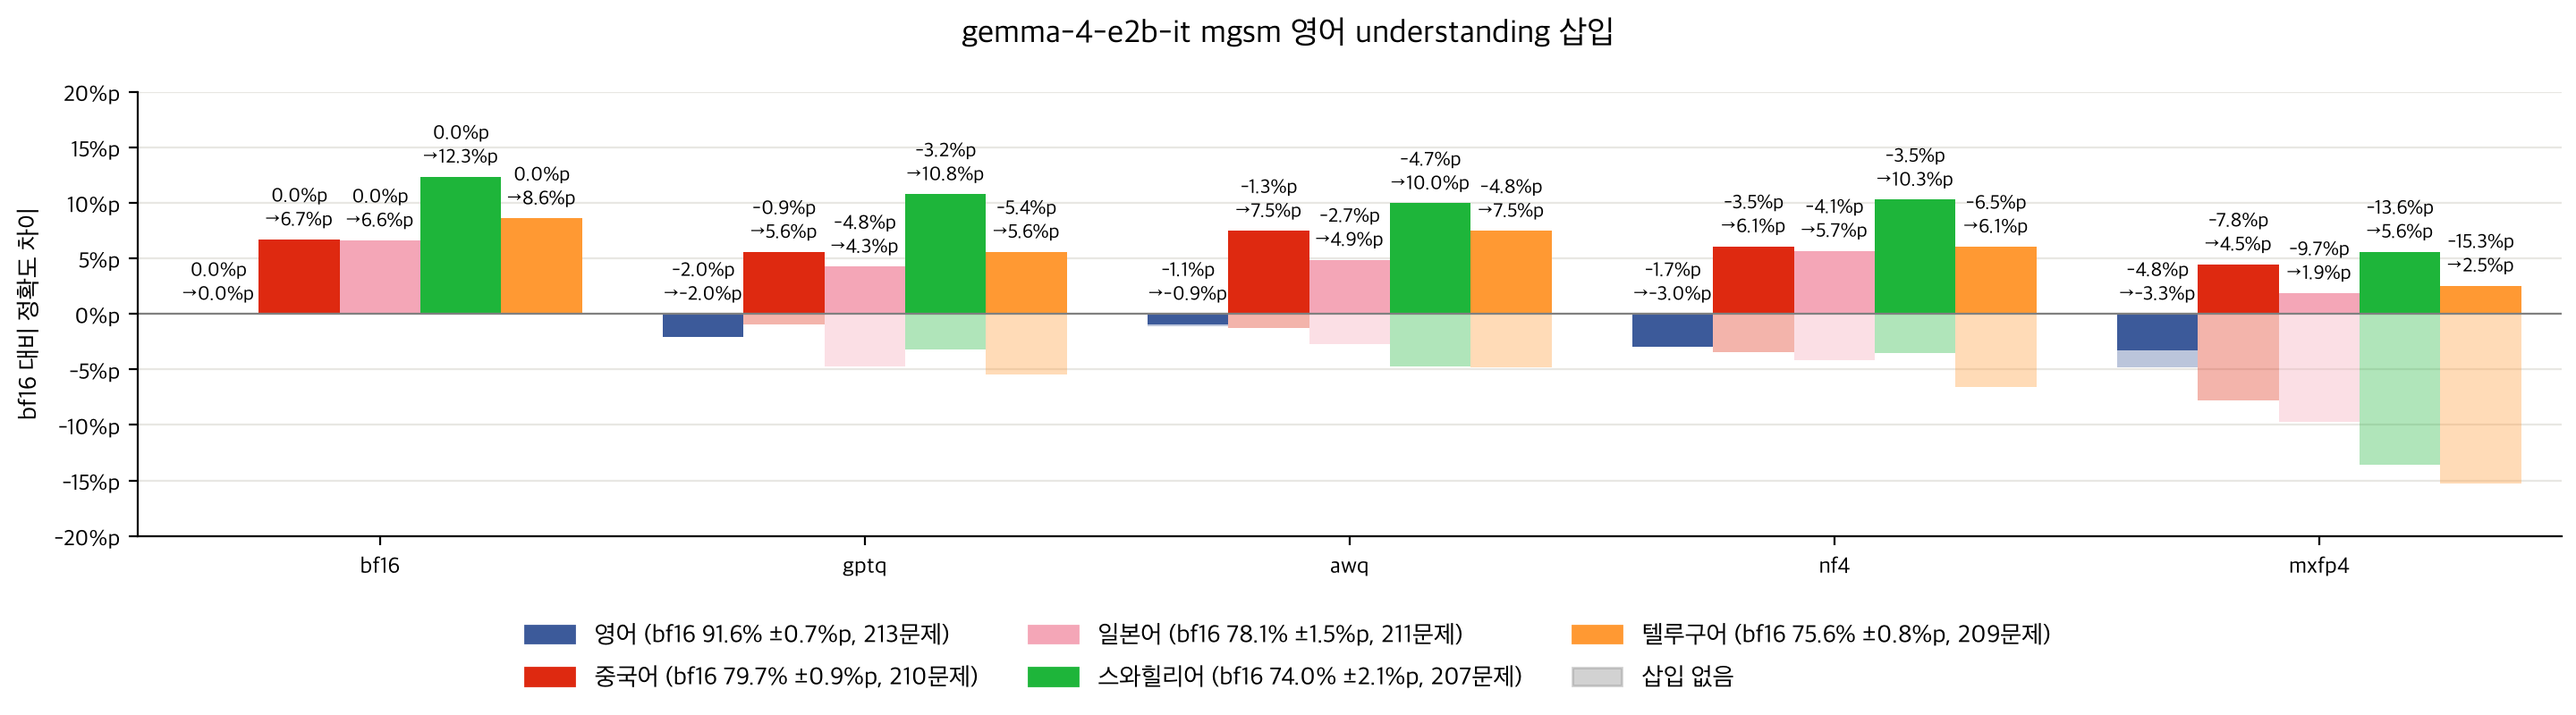
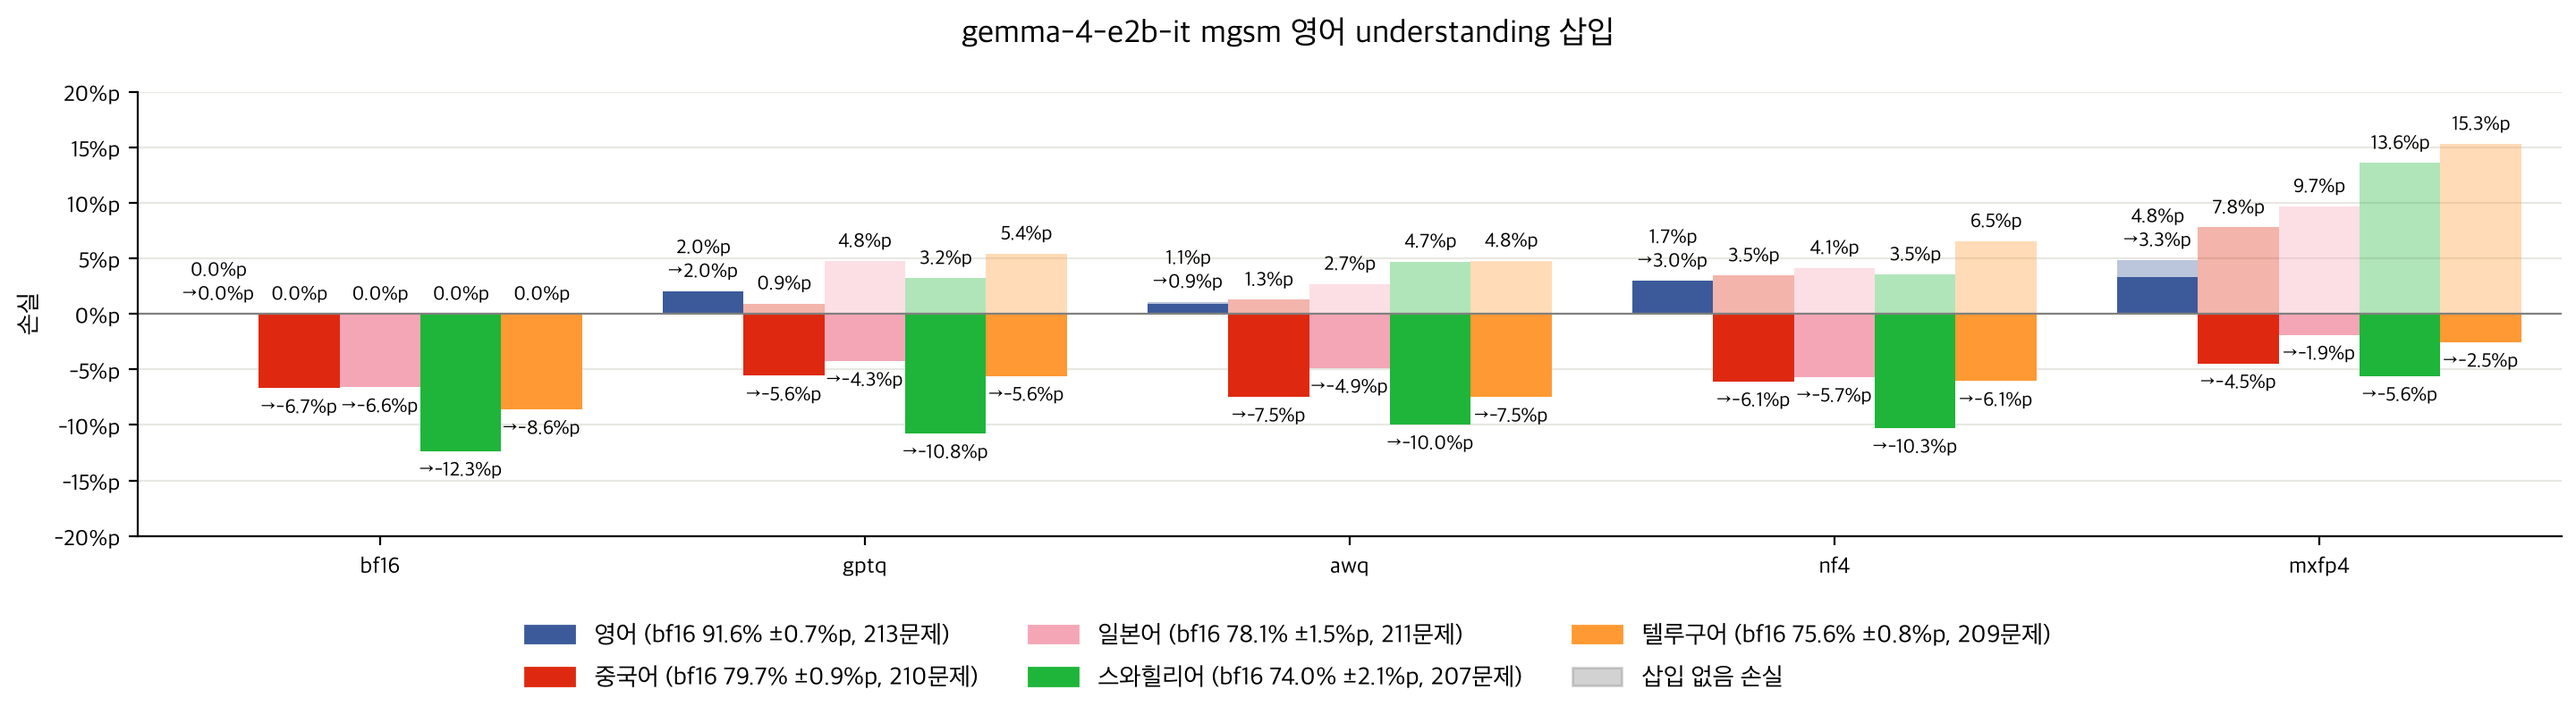
영어 question 삽입 실험 추가

Changed region(s): [[0.0938, 0.1562, 1.0, 0.6875], [0.0, 0.375, 0.0312, 0.5], [0.6562, 0.9375, 0.6875, 0.9688]]

diff --git a/utils/plot.py b/utils/plot.py
@@ -11,6 +11,8 @@ from matplotlib.ticker import PercentFormatter
 from utils.dataset import LANGUAGES
 
 QUANTIZATION_METHODS = ["gptq", "awq", "nf4", "mxfp4"]
+# bf16도 삽입을 받는 plot은 bf16을 함께 표시
+METHODS = ["bf16", *QUANTIZATION_METHODS]
 MODEL_NAMES = {"Qwen/Qwen3.5-2B": "qwen3.5-2b", "google/gemma-4-E2B-it": "gemma-4-e2b-it"}
 BENCHMARK_NAMES = {"mgsm": "mgsm", "mmlu_prox_lite": "mmlu-prox-lite"}
 LANGUAGE_NAMES = {"en": "영어", "zh": "중국어", "ja": "일본어", "sw": "스와힐리어", "te": "텔루구어"}
@@ -24,6 +26,8 @@ PANEL_MARGIN = 0.9
 INSERT_LOSS_YMIN = -0.05
 INSERT_LOSS_YMAX = 0.2
 INSERT_LOSS_YTICK = 0.05
+# 영어 삽입은 bf16을 넘어 손실이 크게 음수
+EN_INSERT_LOSS_YMIN = -0.2
 # 삽입 없음을 같은 언어 색의 연한 막대로 표시
 NO_INSERT_ALPHA = 0.35
 NUM_POSITION_BINS = 5
@@ -132,25 +136,36 @@ def plot_language_bars(
 def plot_insert_bars(
     ax: Axes,
     cases: list[str],
-    values: dict[str, list[tuple[float, float]]],
+    losses: dict[str, list[tuple[float, float]]],
     recovery_cases: list[str],
 ) -> None:
-    # case마다 (삽입 없음, 삽입) 값을 받아 삽입 없음 막대 위에 삽입 막대를 겹쳐 그림
-    # 손실이면 recovery_cases에 회복 비율도 표시
+    # case마다 (삽입 없음, 삽입) 손실을 받아 연한 삽입 없음 막대 위에 삽입 막대를 겹쳐 그림
+    # recovery_cases에는 회복 비율도 표시
     # 예시) 막대 위 "13.6%p\n→5.8%p\n57% 회복"
     for language_index, language in enumerate(LANGUAGES):
-        for case_index, (no_insert_value, insert_value) in enumerate(values[language]):
+        for case_index, (no_insert_loss, insert_loss) in enumerate(losses[language]):
             x = case_index * CASE_WIDTH + language_index - (len(LANGUAGES) - 1) / 2
-            ax.bar(x, no_insert_value, width=1, color=LANGUAGE_COLORS[language], alpha=NO_INSERT_ALPHA)
-            ax.bar(x, insert_value, width=1, color=LANGUAGE_COLORS[language])
-            texts = [f"{round(no_insert_value * 100, 1) + 0.0:.1f}%p", f"→{round(insert_value * 100, 1) + 0.0:.1f}%p"]
+            ax.bar(x, no_insert_loss, width=1, color=LANGUAGE_COLORS[language], alpha=NO_INSERT_ALPHA)
+            ax.bar(x, insert_loss, width=1, color=LANGUAGE_COLORS[language])
+            # 삽입 손실이 음수면 옆 숫자와 겹치지 않게 막대 아래에 따로 표시
+            insert_text = f"→{round(insert_loss * 100, 1) + 0.0:.1f}%p"
+            texts = [f"{round(no_insert_loss * 100, 1) + 0.0:.1f}%p"]
+            if insert_loss >= 0:
+                texts.append(insert_text)
+            else:
+                ax.annotate(insert_text, (x, insert_loss), xytext=(0, -3), textcoords="offset points", ha="center", va="top", fontsize=8)
             if cases[case_index] in recovery_cases:
-                texts.append(f"{(no_insert_value - insert_value) / no_insert_value:.0%} 회복")
-            ax.annotate("\n".join(texts), (x, max(no_insert_value, insert_value, 0)), xytext=(0, 3), textcoords="offset points", ha="center", va="bottom", fontsize=8)
+                texts.append(f"{(no_insert_loss - insert_loss) / no_insert_loss:.0%} 회복")
+            ax.annotate("\n".join(texts), (x, max(no_insert_loss, insert_loss, 0)), xytext=(0, 3), textcoords="offset points", ha="center", va="bottom", fontsize=8)
     ax.axhline(0, color="#808080", linewidth=0.8)
     ax.set_xticks([case_index * CASE_WIDTH for case_index in range(len(cases))], cases)
     ax.set_xlim(-CASE_WIDTH / 2, (len(cases) - 0.5) * CASE_WIDTH)
     ax.yaxis.set_major_formatter(PercentFormatter(1, decimals=0, symbol="%p"))
+
+
+def get_no_insert_handle() -> Patch:
+    # plot_insert_bars의 삽입 없음 막대와 같은 모양의 범례
+    return Patch(color="#808080", alpha=NO_INSERT_ALPHA, label="삽입 없음 손실")
 
 
 def add_language_legend(

diff --git a/experiments/en_question_insert.py b/experiments/en_question_insert.py
@@ -1,0 +1,72 @@
+from dataclasses import dataclass
+from statistics import mean
+import time
+from typing import Literal
+
+from simple_parsing import parse
+import torch
+from transformers import AutoTokenizer
+
+from utils.dataset import LANGUAGES, get_mgsm_question, load_mgsm
+from utils.evaluation import continue_vllm, evaluate_outputs, load_vllm, parse_mgsm_prediction
+from utils.format import format_duration
+from utils.hub import download_model, result_exists, save_result
+from utils.model import GENERATION_CONFIGS, get_prompt_ids, get_reasoning_ids
+from utils.paths import make_hub_path, make_result_name
+
+
+@dataclass
+class Config:
+    model_name: str = "google/gemma-4-E2B-it"
+    method: Literal["bf16", "gptq", "awq", "nf4", "mxfp4"] = "bf16"
+    calibration_languages: tuple[Literal["en", "zh", "ja", "sw", "te"], ...] = ("en",)
+    num_bits: int = 4
+    group_size: int = 128
+    num_chunks: int = 128
+    max_generation_len: int = 16384
+    seeds: tuple[int, ...] = (0, 1, 2)
+
+
+def main() -> None:
+    config = parse(Config)
+    experiment_name = "en_question_insert/mgsm"
+    hub_path = make_hub_path(config.method, config.model_name, config.calibration_languages, config.num_bits, config.group_size, config.num_chunks)
+    file_names = {seed: make_result_name(config.max_generation_len, seed) for seed in config.seeds}
+
+    # 1. seed마다 hub result에서 빠진 것 확인, 빠진 것이 없으면 종료
+    missing_seeds = [seed for seed, file_name in file_names.items() if not result_exists(experiment_name, hub_path, file_name)]
+    if not missing_seeds:
+        print(f"{hub_path} already evaluated")
+        return
+    problems = load_mgsm(LANGUAGES)
+    tokenizer = AutoTokenizer.from_pretrained(config.model_name)
+
+    # 2. 해당 언어 prompt 뒤, reasoning 시작에 같은 문제의 영어 question 삽입
+    # 예시) 스와힐리어 prompt + "<|channel>thought\n" + 영어 question + "\n\n"
+    en_questions = [get_mgsm_question(prompt) for prompt, _ in problems["en"]]
+    reasoning_header = GENERATION_CONFIGS[config.model_name]["reasoning_header"]
+    language_input_ids = [torch.cat([get_prompt_ids(tokenizer, prompt), get_reasoning_ids(tokenizer, config.model_name, reasoning_header + en_question + "\n\n")]) for language in LANGUAGES for (prompt, _), en_question in zip(problems[language], en_questions)]
+    input_ids = language_input_ids * len(missing_seeds)
+    prompt_seeds = [seed for seed in missing_seeds for _ in language_input_ids]
+
+    # 3. vllm은 띄우는 데 오래 걸리기 때문에 영어 question에 이어서 reasoning과 response를 모아 한 번에 생성
+    model_path = config.model_name if config.method == "bf16" else download_model(hub_path)
+    model = load_vllm(model_path, config.model_name)
+    start_time = time.perf_counter()
+    outputs = continue_vllm(model, config.model_name, input_ids, prompt_seeds, config.max_generation_len)
+    print(f"{hub_path} time {format_duration(time.perf_counter() - start_time)}")
+
+    # 4. outputs를 seed와 언어별로 나눠 채점하고 저장
+    start = 0
+    for seed in missing_seeds:
+        result = {}
+        for language in LANGUAGES:
+            end = start + len(problems[language])
+            result[language] = evaluate_outputs(outputs[start:end], [answer for _, answer in problems[language]], language, tokenizer, config.model_name, parse_mgsm_prediction)
+            start = end
+            print(f"{hub_path} seed {seed} {language} accuracy {result[language]['accuracy']:.2%} reasoning len {mean(result[language]['reasoning_lens']):.0f} truncated {mean(result[language]['truncateds']):.2%}")
+        save_result(experiment_name, hub_path, file_names[seed], result)
+
+
+if __name__ == "__main__":
+    main()

diff --git a/plots/en_understanding_insert.py b/plots/en_understanding_insert.py
@@ -2,7 +2,6 @@ from dataclasses import dataclass
 from statistics import mean
 from typing import Literal
 
-from matplotlib.patches import Patch
 import matplotlib.pyplot as plt
 from matplotlib.ticker import MultipleLocator
 from simple_parsing import parse
@@ -10,14 +9,8 @@ from simple_parsing import parse
 from utils.dataset import LANGUAGES
 from utils.hub import load_results
 from utils.paths import make_hub_path
-from utils.plot import NO_INSERT_ALPHA, QUANTIZATION_METHODS, add_language_legend, get_figsize, get_subset_accuracy, get_title, plot_insert_bars, save_figure
+from utils.plot import EN_INSERT_LOSS_YMIN, INSERT_LOSS_YMAX, INSERT_LOSS_YTICK, METHODS, add_language_legend, get_figsize, get_no_insert_handle, get_subset_accuracy, get_title, plot_insert_bars, save_figure
 from utils.understanding import get_understanding_problem_indices
-
-# bf16도 다른 understanding을 받으므로 함께 표시
-METHODS = ["bf16", *QUANTIZATION_METHODS]
-DIFFERENCE_YMIN = -0.2
-DIFFERENCE_YMAX = 0.2
-DIFFERENCE_YTICK = 0.05
 
 
 @dataclass
@@ -37,25 +30,25 @@ def main() -> None:
     # understanding 삽입과 같은 문제로 비교
     problem_indices = {language: [get_understanding_problem_indices(bf16_result, language) for bf16_result in bf16_results] for language in LANGUAGES}
 
-    # 같은 seed의 삽입 없는 bf16 정확도를 기준으로 삽입 없음, 삽입 정확도 차이
-    differences = {language: [] for language in LANGUAGES}
+    # 같은 seed의 삽입 없는 bf16 정확도를 기준으로 삽입 없음, 삽입 손실, bf16을 넘으면 음수
+    losses = {language: [] for language in LANGUAGES}
     for method in METHODS:
         hub_path = make_hub_path(method, config.model_name, config.calibration_languages, config.num_bits, config.group_size, config.num_chunks)
         no_insert_results = load_results("mgsm", hub_path, config.max_generation_len, config.seeds)
         insert_results = load_results("bf16_en_understanding_insert/mgsm", hub_path, config.max_generation_len, config.seeds)
         for language in LANGUAGES:
             bf16_accuracy, no_insert_accuracy, insert_accuracy = [mean(get_subset_accuracy(result[language], indices) for result, indices in zip(results, problem_indices[language])) for results in [bf16_results, no_insert_results, insert_results]]
-            differences[language].append((no_insert_accuracy - bf16_accuracy, insert_accuracy - bf16_accuracy))
+            losses[language].append((bf16_accuracy - no_insert_accuracy, bf16_accuracy - insert_accuracy))
 
     fig, ax = plt.subplots(figsize=get_figsize(len(METHODS), 1), layout="constrained")
-    plot_insert_bars(ax, METHODS, differences, [])
-    ax.set_ylabel("bf16 대비 정확도 차이")
-    ax.set_ylim(DIFFERENCE_YMIN, DIFFERENCE_YMAX)
-    ax.yaxis.set_major_locator(MultipleLocator(DIFFERENCE_YTICK))
+    plot_insert_bars(ax, METHODS, losses, [])
+    ax.set_ylabel("손실")
+    ax.set_ylim(EN_INSERT_LOSS_YMIN, INSERT_LOSS_YMAX)
+    ax.yaxis.set_major_locator(MultipleLocator(INSERT_LOSS_YTICK))
 
     fig.suptitle(get_title(config.model_name, "mgsm", "영어 understanding 삽입"))
     num_problems = {language: round(mean(len(indices) for indices in problem_indices[language])) for language in LANGUAGES}
-    add_language_legend(fig, bf16_results, num_problems, (Patch(color="#808080", alpha=NO_INSERT_ALPHA, label="삽입 없음"),))
+    add_language_legend(fig, bf16_results, num_problems, (get_no_insert_handle(),))
     save_figure(fig, config.model_name, "mgsm_en_understanding_insert")
 
 

diff --git a/plots/en_question_insert.py b/plots/en_question_insert.py
@@ -1,0 +1,53 @@
+from dataclasses import dataclass
+from typing import Literal
+
+import matplotlib.pyplot as plt
+from matplotlib.ticker import MultipleLocator
+from simple_parsing import parse
+
+from utils.dataset import LANGUAGES
+from utils.hub import load_results
+from utils.paths import make_hub_path
+from utils.plot import EN_INSERT_LOSS_YMIN, INSERT_LOSS_YMAX, INSERT_LOSS_YTICK, METHODS, add_language_legend, get_accuracy, get_figsize, get_mean_values, get_no_insert_handle, get_title, plot_insert_bars, save_figure
+
+
+@dataclass
+class Config:
+    model_name: str = "google/gemma-4-E2B-it"
+    calibration_languages: tuple[Literal["en", "zh", "ja", "sw", "te"], ...] = ("en",)
+    num_bits: int = 4
+    group_size: int = 128
+    num_chunks: int = 128
+    max_generation_len: int = 16384
+    seeds: tuple[int, ...] = (0, 1, 2)
+
+
+def main() -> None:
+    config = parse(Config)
+    bf16_results = load_results("mgsm", make_hub_path("bf16", config.model_name), config.max_generation_len, config.seeds)
+    no_insert_results = {}
+    insert_results = {}
+    for method in METHODS:
+        hub_path = make_hub_path(method, config.model_name, config.calibration_languages, config.num_bits, config.group_size, config.num_chunks)
+        no_insert_results[method] = load_results("mgsm", hub_path, config.max_generation_len, config.seeds)
+        insert_results[method] = load_results("en_question_insert/mgsm", hub_path, config.max_generation_len, config.seeds)
+
+    # 삽입 없는 bf16 정확도를 기준으로 삽입 없음, 삽입 손실, bf16을 넘으면 음수
+    bf16_accuracies = get_mean_values({"bf16": bf16_results}, ["bf16"], get_accuracy)
+    no_insert_accuracies = get_mean_values(no_insert_results, METHODS, get_accuracy)
+    insert_accuracies = get_mean_values(insert_results, METHODS, get_accuracy)
+    losses = {language: [(bf16_accuracies[language][0] - no_insert_accuracy, bf16_accuracies[language][0] - insert_accuracy) for no_insert_accuracy, insert_accuracy in zip(no_insert_accuracies[language], insert_accuracies[language])] for language in LANGUAGES}
+
+    fig, ax = plt.subplots(figsize=get_figsize(len(METHODS), 1), layout="constrained")
+    plot_insert_bars(ax, METHODS, losses, [])
+    ax.set_ylabel("손실")
+    ax.set_ylim(EN_INSERT_LOSS_YMIN, INSERT_LOSS_YMAX)
+    ax.yaxis.set_major_locator(MultipleLocator(INSERT_LOSS_YTICK))
+
+    fig.suptitle(get_title(config.model_name, "mgsm", "영어 question 삽입"))
+    add_language_legend(fig, bf16_results, extra_handles=(get_no_insert_handle(),))
+    save_figure(fig, config.model_name, "mgsm_en_question_insert")
+
+
+if __name__ == "__main__":
+    main()

diff --git a/utils/model.py b/utils/model.py
@@ -3,14 +3,15 @@ from torch import Tensor
 from transformers import AutoModelForImageTextToText, PreTrainedModel, PreTrainedTokenizerBase
 
 # reasoning_start: reasoning 시작 token
+# reasoning_header: reasoning_start 뒤에 모델이 항상 먼저 쓰는 text
 # reasoning_end: reasoning과 response를 나누는 token
 # qwen은 chat template이 prompt 끝에 reasoning_start token을 붙여서 비워 둠
 # 예시) qwen 출력 "...\n</think>\n\nAnswer: 72"
 # 예시) gemma 출력 "<|channel>thought\n...<channel|>Answer: 72"
 GENERATION_CONFIGS = {
-    "Qwen/Qwen3.5-2B": {"sampling": {"temperature": 1.0, "top_p": 0.95, "top_k": 20, "presence_penalty": 1.5}, "reasoning_start": "", "reasoning_end": "</think>"},
-    "Qwen/Qwen3.5-27B": {"sampling": {"temperature": 1.0, "top_p": 0.95, "top_k": 20, "presence_penalty": 1.5}, "reasoning_start": "", "reasoning_end": "</think>"},
-    "google/gemma-4-E2B-it": {"sampling": {"temperature": 1.0, "top_p": 0.95, "top_k": 64, "presence_penalty": 0.0}, "reasoning_start": "<|channel>", "reasoning_end": "<channel|>"},
+    "Qwen/Qwen3.5-2B": {"sampling": {"temperature": 1.0, "top_p": 0.95, "top_k": 20, "presence_penalty": 1.5}, "reasoning_start": "", "reasoning_header": "", "reasoning_end": "</think>"},
+    "Qwen/Qwen3.5-27B": {"sampling": {"temperature": 1.0, "top_p": 0.95, "top_k": 20, "presence_penalty": 1.5}, "reasoning_start": "", "reasoning_header": "", "reasoning_end": "</think>"},
+    "google/gemma-4-E2B-it": {"sampling": {"temperature": 1.0, "top_p": 0.95, "top_k": 64, "presence_penalty": 0.0}, "reasoning_start": "<|channel>", "reasoning_header": "thought\n", "reasoning_end": "<channel|>"},
 }
 
 

diff --git a/plots/understanding_insert.py b/plots/understanding_insert.py
@@ -2,7 +2,6 @@ from dataclasses import dataclass
 from statistics import mean
 from typing import Literal
 
-from matplotlib.patches import Patch
 import matplotlib.pyplot as plt
 from matplotlib.ticker import MultipleLocator
 from simple_parsing import parse
@@ -10,7 +9,7 @@ from simple_parsing import parse
 from utils.dataset import LANGUAGES
 from utils.hub import load_results
 from utils.paths import make_hub_path
-from utils.plot import INSERT_LOSS_YMAX, INSERT_LOSS_YMIN, INSERT_LOSS_YTICK, NO_INSERT_ALPHA, QUANTIZATION_METHODS, add_language_legend, get_figsize, get_subset_accuracy, get_title, plot_insert_bars, save_figure
+from utils.plot import INSERT_LOSS_YMAX, INSERT_LOSS_YMIN, INSERT_LOSS_YTICK, QUANTIZATION_METHODS, add_language_legend, get_figsize, get_no_insert_handle, get_subset_accuracy, get_title, plot_insert_bars, save_figure
 from utils.understanding import get_understanding_problem_indices
 
 # 회복 비율을 표시할 양자화 방법, 나머지는 손실이 작아 비율이 의미 없음
@@ -52,7 +51,7 @@ def main() -> None:
 
     fig.suptitle(get_title(config.model_name, "mgsm", "understanding 삽입"))
     num_problems = {language: round(mean(len(indices) for indices in problem_indices[language])) for language in LANGUAGES}
-    add_language_legend(fig, bf16_results, num_problems, (Patch(color="#808080", alpha=NO_INSERT_ALPHA, label="삽입 없음 손실"),))
+    add_language_legend(fig, bf16_results, num_problems, (get_no_insert_handle(),))
     save_figure(fig, config.model_name, "mgsm_understanding_insert")
 
 

diff --git a/experiments/error_types.py b/experiments/error_types.py
@@ -5,7 +5,7 @@ from typing import Literal
 
 from simple_parsing import parse
 
-from utils.dataset import LANGUAGES, load_mgsm
+from utils.dataset import LANGUAGES, get_mgsm_question, load_mgsm
 from utils.evaluation import generate_vllm, load_vllm, split_outputs
 from utils.format import format_duration
 from utils.hub import load_result, load_results, result_exists, save_result
@@ -62,14 +62,6 @@ class Config:
     max_generation_len: int = 16384
     seeds: tuple[int, ...] = (0, 1, 2)
     bf16_seeds: tuple[int, ...] = (0, 1, 2)
-
-
-def get_mgsm_question(
-    prompt: str,
-) -> str:
-    # instruction과 question 사이 빈 줄로 나눠 question만 추출
-    # 예시) instruction + "\n\n" + question → question
-    return prompt.split("\n\n", 1)[1]
 
 
 def main() -> None:

diff --git a/utils/dataset.py b/utils/dataset.py
@@ -50,3 +50,11 @@ def load_mgsm(
         dataset = load_dataset("juletxara/mgsm", language, split="test")
         problems[language] = [(MGSM_PROMPTS[language].format(question=row["question"]), row["answer_number"]) for row in dataset]
     return problems
+
+
+def get_mgsm_question(
+    prompt: str,
+) -> str:
+    # instruction과 question 사이 빈 줄로 나눠 question만 추출
+    # 예시) instruction + "\n\n" + question → question
+    return prompt.split("\n\n", 1)[1]

diff --git a/EXPERIMENTS.md b/EXPERIMENTS.md
@@ -106,7 +106,7 @@
 ### 영어 understanding 삽입
 - [understanding 삽입](#understanding-삽입)에서, bf16 understanding만 삽입해도 손실이 크게 회복됨
 - 그렇다면 해당 언어 question을 영어처럼 곧이곧대로 이해한 understanding을 삽입하면, 영어만큼 회복되는지 확인
-- bf16이 영어 prompt에 쓴 understanding을 bf16과 양자화 모델에 삽입하고 bf16 대비 정확도 차이 비교
+- bf16이 영어 prompt에 쓴 understanding을 bf16과 양자화 모델에 삽입하고 손실 비교
 #### 설정
 - understanding은 같은 seed의 bf16이 영어 prompt에 쓴 것
 - bf16도 자기와 다른 understanding을 받으므로 bf16에도 삽입
@@ -120,6 +120,19 @@
 - 따라서 영어처럼 이해하면 bf16을 넘을 만큼 회복되지만, understanding만으로는 영어만큼 회복되지 않음
 
 ### 영어 question 삽입
+- [영어 understanding 삽입](#영어-understanding-삽입)에서, understanding만으로는 영어만큼 회복되지 않음
+- 그렇다면 [why do multilingual reasoning gaps emerge in reasoning language models](https://arxiv.org/abs/2510.27269)처럼 영어 question 자체를 삽입하면, 양자화 모델도 더 회복되는지 확인
+- 같은 문제의 영어 question을 bf16과 양자화 모델에 삽입하고 손실 비교
+#### 설정
+- 해당 논문과 달리 문장으로 감싸지 않고 영어 question만 삽입
+- 문제는 모든 문제
+#### 결과
+![](figures/gemma-4-E2B-it/mgsm_en_question_insert.png)
+- 모든 양자화 방법에서, 영어 외 모든 언어가 bf16을 넘음
+- 영어 understanding 삽입보다 대부분 더 오름
+- bf16은 해당 논문처럼 영어 외 언어가 영어 정확도에 가까워짐
+- 그러나 양자화 모델은 아직 영어 정확도에 못 미침
+- 따라서 양자화 모델도 영어 question을 받으면 해당 언어에서 bf16을 넘음
 
 ### bf16 번역 삽입
 

diff --git a/README.md b/README.md
@@ -30,7 +30,7 @@
 - 영어 question: 같은 문제의 영어 원문
 - 삽입: reasoning 시작에 넣고, 이어서 모델이 씀
 - 손실: bf16 정확도에서 양자화 모델 정확도를 뺀 값
-- 넘음: 삽입 없는 bf16의 해당 언어 정확도보다 높음
+- 넘음: 삽입 없는 bf16의 해당 언어 정확도보다 높음, 그림에서는 손실이 0 아래
 - qat: 양자화한 채로 finetune
 #### 모델
 - qwen3.5-2b와 gemma-4-e2b-it, thinking mode를 켜고 bf16과 비교
@@ -113,6 +113,16 @@
 - 따라서 손실은 solving보다 주로 understanding에서 생김
 
 ### 영어 question 삽입
+- [영어 understanding 삽입](EXPERIMENTS.md#영어-understanding-삽입)에서, understanding만으로는 영어만큼 회복되지 않음
+- 그렇다면 [why do multilingual reasoning gaps emerge in reasoning language models](https://arxiv.org/abs/2510.27269)처럼 영어 question 자체를 삽입하면, 양자화 모델도 더 회복되는지 확인
+- 같은 문제의 영어 question을 bf16과 양자화 모델에 삽입하고 손실 비교
+#### 설정
+- 해당 논문과 달리 문장으로 감싸지 않고 영어 question만 삽입
+- 문제는 모든 문제
+#### 결과
+![](figures/gemma-4-E2B-it/mgsm_en_question_insert.png)
+- 모든 양자화 방법에서, 영어 외 모든 언어가 bf16을 넘음
+- 따라서 양자화 모델도 영어 question을 받으면 해당 언어에서 bf16을 넘음
 
 ### 영어 question과 reasoning finetune과 qat
 
